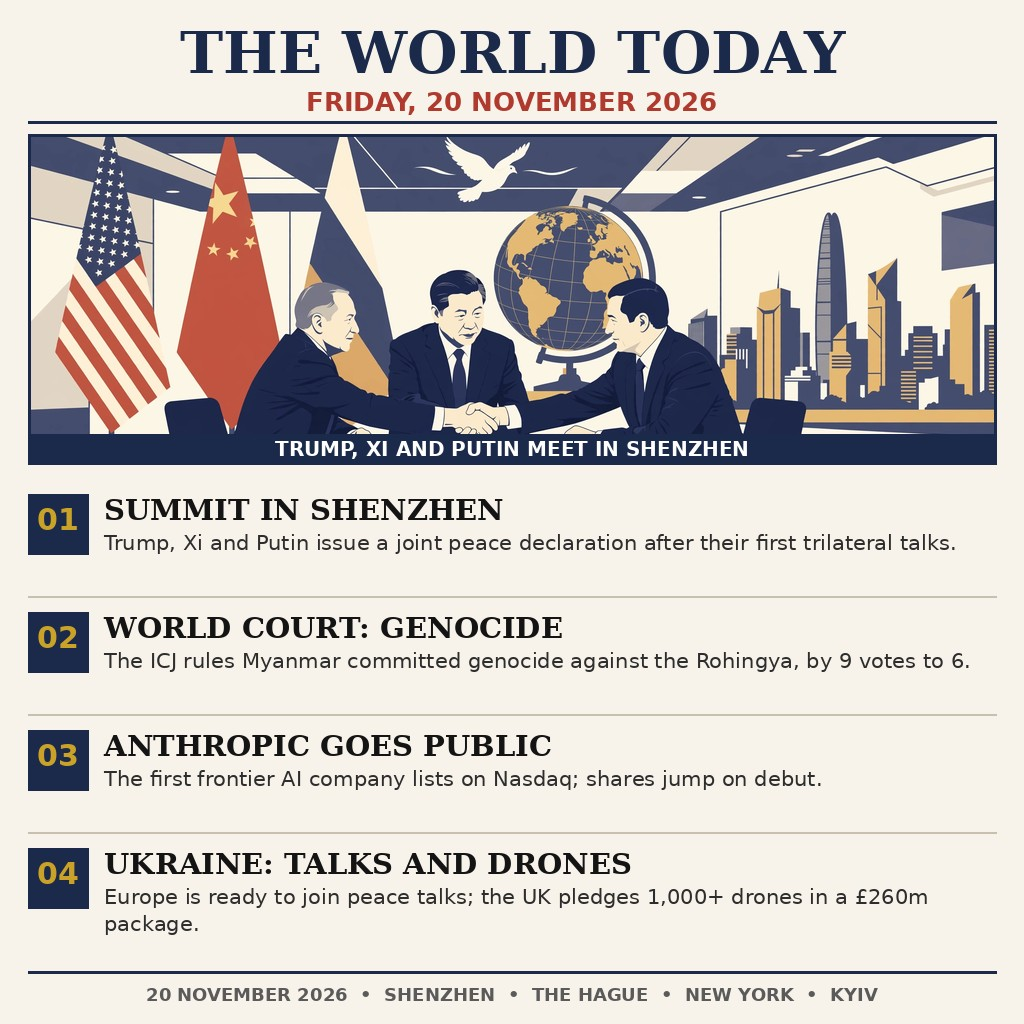
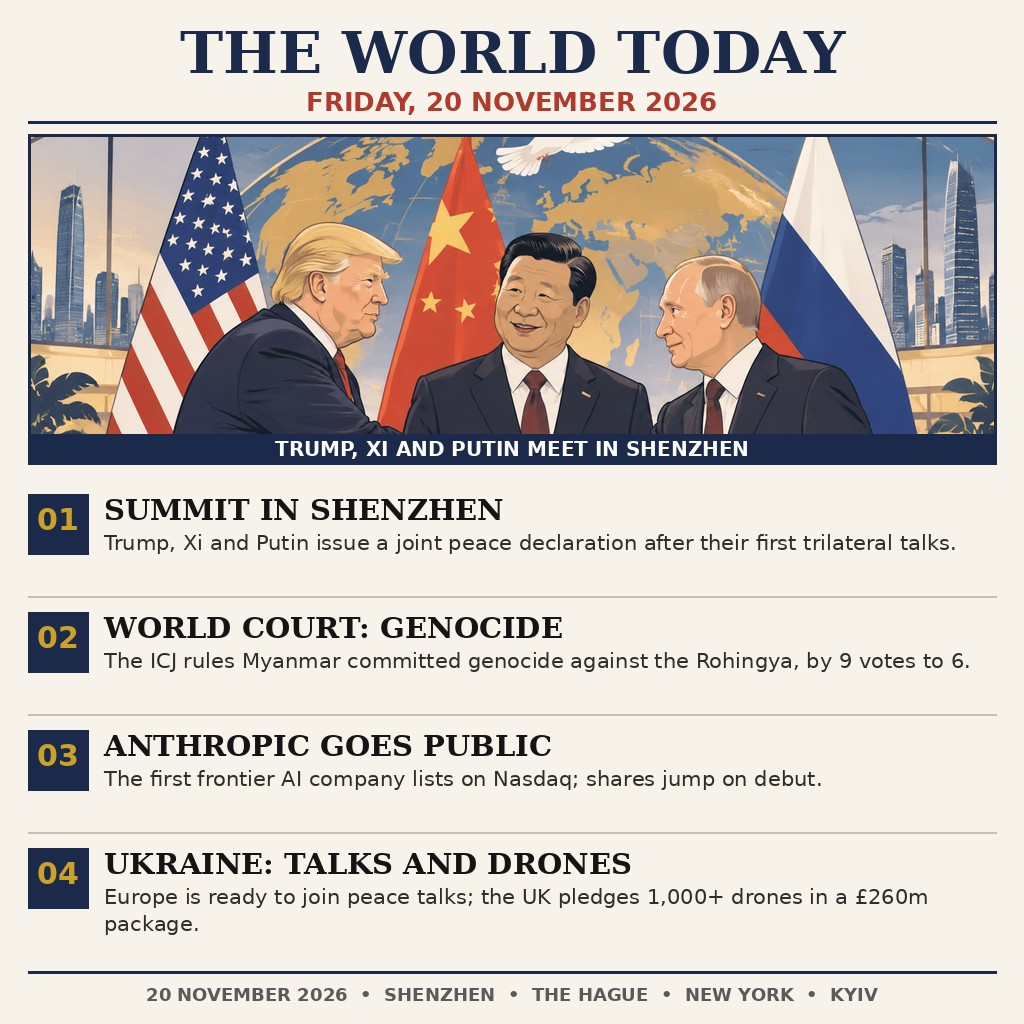
v2: hero artwork from ChatGPT (Tri request); crop focused on faces

Changed region(s): [[0.0312, 0.125, 0.9688, 0.4375]]

diff --git a/build_image.py b/build_image.py
@@ -1,8 +1,9 @@
 #!/usr/bin/env python3
 """Build the 1024x1024 front-page image for news-image-20261120.
 
-Hero artwork was generated in-session (AI image, no text). All headlines
-and labels are drawn here with PIL so every word is crisp and accurate.
+Hero artwork was generated in ChatGPT (Tri's request, 20 Nov 2026, no text
+in the artwork). All headlines and labels are drawn here with PIL so every
+word is crisp and accurate.
 Output: entry.png (JPEG bytes under the .png name, allowed by RULES.txt:
 the file is told apart by its first bytes; the name stays entry.png).
 """
@@ -54,14 +55,16 @@ def main():
            fill=RED, anchor="ma")
     d.line([(28, 122), (W - 28, 122)], fill=NAVY, width=3)
 
-    # --- hero band (AI artwork, no text in it) ---
-    hero = Image.open("assets/media-generation-hero-summit-0-2d877a3d-9b2b-49fe-9985-8abf486c03a1.png").convert("RGB")
+    # --- hero band (ChatGPT artwork, no text in it) ---
+    hero = Image.open("assets/hero-chatgpt.png").convert("RGB")
     hw, hh = hero.size
     target_w, target_h = 968, 330
     scale = max(target_w / hw, target_h / hh)
     hero = hero.resize((int(hw * scale + 0.5), int(hh * scale + 0.5)), Image.LANCZOS)
+    # crop biased to the upper-middle (focus 0.35): keeps the three faces
+    # and the handshake, trims the dove at the top and the flowers below
     x0 = (hero.width - target_w) // 2
-    y0 = (hero.height - target_h) // 2
+    y0 = int((hero.height - target_h) * 0.35)
     hero = hero.crop((x0, y0, x0 + target_w, y0 + target_h))
     img.paste(hero, (28, 134))
     d.rectangle([28, 134, 28 + 968, 134 + 330], outline=NAVY, width=3)
